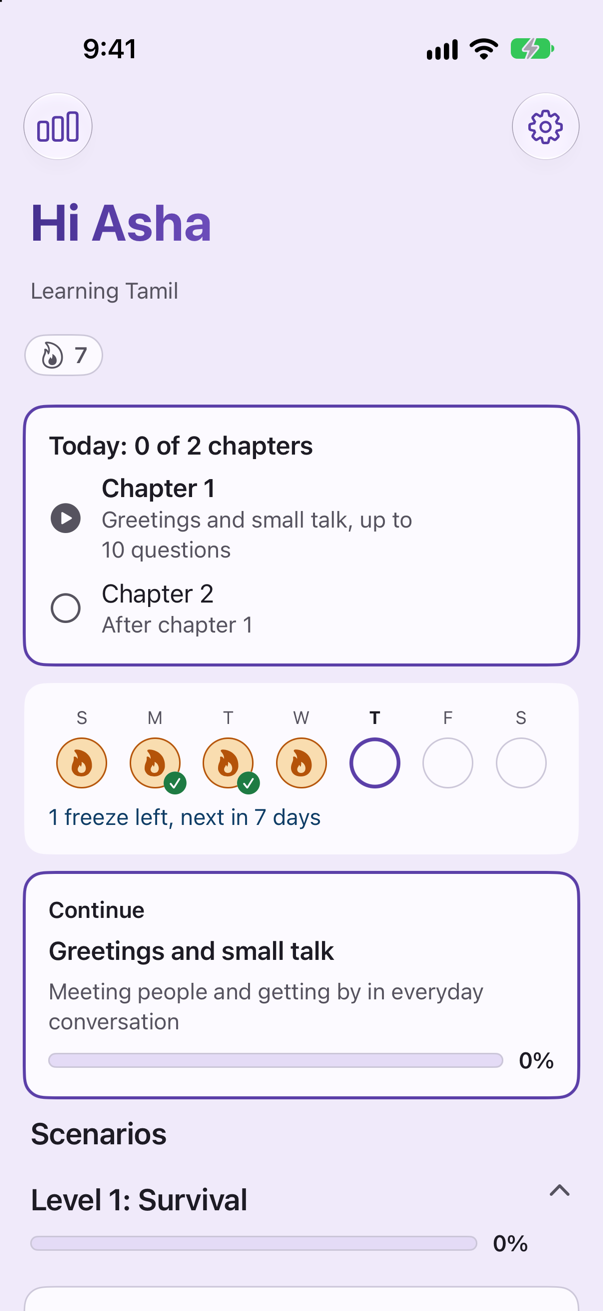
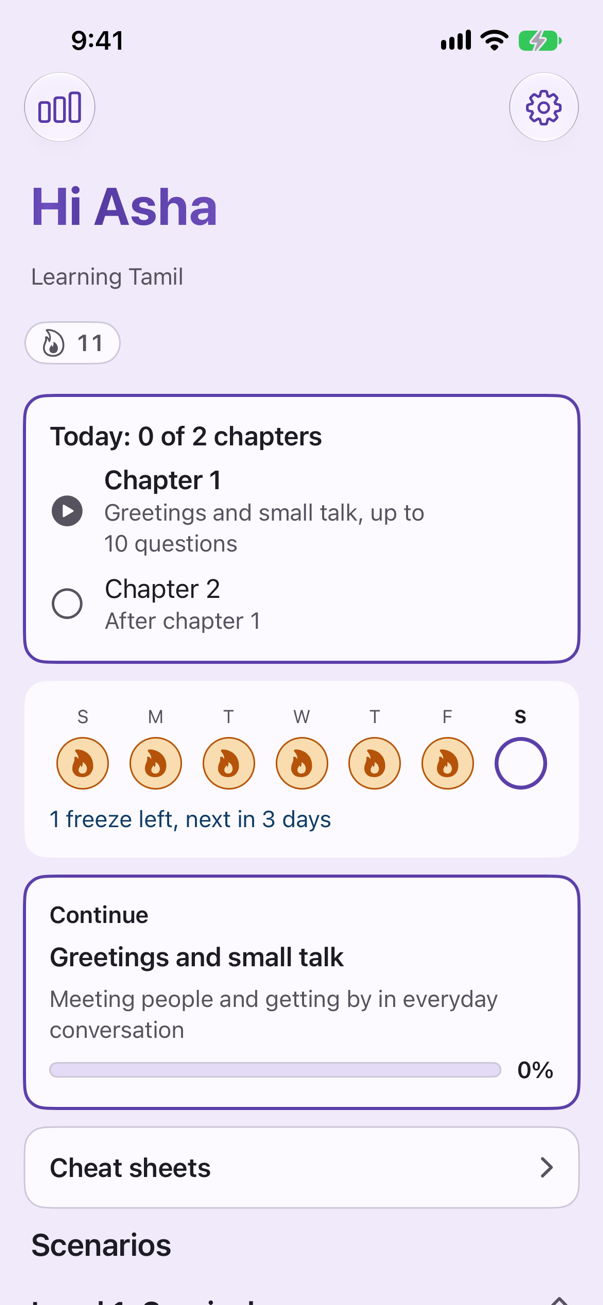
Home: move the Cheat sheets row under the Continue card (v0.5.2) (#49)

diff --git a/Packages/BLTKit/Sources/BLTFeatures/Home/ScenariosView.swift b/Packages/BLTKit/Sources/BLTFeatures/Home/ScenariosView.swift
@@ -112,6 +112,7 @@ struct ScenariosView: View {
                 if let next = viewModel.continueLesson {
                     ContinueLessonCard(summary: next) { onSelectScenario(next.id) }
                 }
+                HomeCheatSheetsEntry(action: onOpenCheatSheetList)
                 Text("Scenarios")
                     .font(.title3.weight(.semibold))
                     .foregroundStyle(Palette(colorScheme).textPrimaryColor)
@@ -121,8 +122,6 @@ struct ScenariosView: View {
                     levelSection(section)
                 }
                 otherLessons
-                HomeCheatSheetsEntry(action: onOpenCheatSheetList)
-                    .padding(.top, 8)
                 if let entry = viewModel.examEntry {
                     ExamEntryCard(entry: entry, action: onOpenExam)
                         .padding(.top, 8)

diff --git a/docs/HANDOFF.md b/docs/HANDOFF.md
@@ -7,7 +7,7 @@ Read this first in a new session, then `CLAUDE.md`. Last updated 2026-10-16 (che
 **Everything in `plan.md` except the exam papers and the review and drafting of Levels 3 to 8 is built and merged on `main`** (Waves 0 to 4, the exam engine and exam storage). The app asks for a name and a language, shows the chosen course's lessons grouped by level, keeps separate progress and imported lessons per language, and switches language in Settings. Both courses have Levels 1 and 2 drafted (480 phrases each); only Tamil lessons 1 to 5 are reviewed, the rest is `unreviewed` (the Settings count reads "100 of 480 reviewed" for Tamil). Nothing is waiting in an unmerged branch or an open PR.
 
 **What to do next, in this order**
-0a. **Cheat sheets (built 2026-10-16, v0.5.0, DECISIONS 048; PR #47).** Read `plan.md` section "Cheat sheets". A finished topic's card gets a "Cheat sheet" button and Home gets a "Cheat sheets" list. The sheet is an auto-built word list (not a verb and adverb sheet: the lesson data has no part-of-speech labels); the unlock is stored per language in `courses/<language>/cheatsheets.json` and Reset progress clears it. Built in Waves 1 to 3 (C1 to C6). UI tests: `HappyPathUITests` (one new), `CheatSheetUITests`, `AccessibilityCheatSheetUITests`; launch argument `--uitest-cheatsheets=<ids>` (or `--uitest-cheatsheets-<language>=<ids>`) marks topics complete, the fixtures' ids are `zz-scenario` and `zz-scenario-telugu`. **Still owed:** (a) screenshots done in v0.5.1; (b) the owner's checks on an iPhone: finish a topic and read its sheet, VoiceOver on a row (it should read "word, meaning"), and that the sheet still opens after the topic is no longer 100%; (c) how the screens look at the largest text size by eye (the audits pass, previews were not viewed rendered); (d) `v0.5.0` and `v0.4.2` are tagged; the Cheat sheets entry sits at the very bottom of Home, below all 24 topics, so a learner may not find it (consider moving it up).
+0a. **Cheat sheets (built 2026-10-16, v0.5.0, DECISIONS 048; PR #47).** Read `plan.md` section "Cheat sheets". A finished topic's card gets a "Cheat sheet" button and Home gets a "Cheat sheets" list. The sheet is an auto-built word list (not a verb and adverb sheet: the lesson data has no part-of-speech labels); the unlock is stored per language in `courses/<language>/cheatsheets.json` and Reset progress clears it. Built in Waves 1 to 3 (C1 to C6). UI tests: `HappyPathUITests` (one new), `CheatSheetUITests`, `AccessibilityCheatSheetUITests`; launch argument `--uitest-cheatsheets=<ids>` (or `--uitest-cheatsheets-<language>=<ids>`) marks topics complete, the fixtures' ids are `zz-scenario` and `zz-scenario-telugu`. **Still owed:** (a) screenshots done in v0.5.1; (b) the owner's checks on an iPhone: finish a topic and read its sheet, VoiceOver on a row (it should read "word, meaning"), and that the sheet still opens after the topic is no longer 100%; (c) how the screens look at the largest text size by eye (the audits pass, previews were not viewed rendered); (d) `v0.5.0` and `v0.4.2` are tagged; the Cheat sheets row was moved from the bottom of Home to just under the Continue card in v0.5.2.
 0. **Daily practice feature (approved 2026-10-14): built, merged as PRs #40, #41 and #42 (the plan is #39).** **Still owed:** (a) the new UI tests have run and pass (`DailyPracticeUITests`, `AccessibilityPracticeUITests`, the new `AccessibilityLargeTextUITests` checks, the three `HappyPathUITests`); the whole full tier ran once on iPhone 17e (77 tests): all pass except `AccessibilityLargeTextUITests.testIntroAndNameEntryControlsAreReachableAtXXXL`, which fails the same way without this feature (Continue not hittable on the name screen at the largest size), so it is a separate follow-up. On the iPhone 17 simulator the two name-entry audits fail ("keyboard did not dismiss") even on code without this feature; use iPhone 17e for them; (b) the owner looks at the new screens in Xcode previews or the simulator (flame, week strip, calendar, burst, Settings section, prompt): nothing has been seen by eye; (c) on the owner's iPhone: allow notifications, finish a session, confirm the reminders at +20 h and +23 h and the quiet-hours shift, VoiceOver on the streak screen, and `.completeFileProtection` on `practice.json`. Rules and shape are in DECISIONS 047 and `docs/ARCHITECTURE.md` "Daily practice". Local notifications only; the one file that imports `UserNotifications` is `BLTApp/BLTApp/LocalReminderScheduler.swift`. No lesson text or learner name in notification text. Known choices: a 25-hour fall-back night breaks a streak unless a freeze is held; the notification prompt is asked once, after the very first finished session; the Continue card stays under the Today card because `HomeUITests` needs it.
 1. **Course content: Levels 1 and 2 are drafted for both courses and wait for review.** Level 1: PRs #29 and #30 (Tamil lessons 1 to 5 reviewed, the rest unreviewed). Level 2 (12 lessons, 240 phrases per language, all `unreviewed`) was drafted ahead of the Level 1 review at the owner's request. The drafting model is **Sonnet 5.5 at High effort**; the owner will check with Opus later. **Level 3 is drafted only after each language's reviewer says Levels 1 and 2 are done**, so their corrections land first (plan.md "Content" step 6); the Tamil and Telugu paces may differ. Rules for the drafter: read `docs/content/STYLE_NOTES_TAMIL.md` (rules from the owner's edits to lessons 1 to 5, plus the Level 2 notes) and `STYLE_NOTES_TELUGU.md` (the drafter's choices and the items least certain); update both with every review correction and re-apply them to the later level. Run `bash scripts/content-index.sh --check` before and after drafting and `--mirror` afterwards (a later duplicate is silently dropped by the loader). Files: `content/<language>/<ta|te>-lNN-uNN-<slug>.json`, items `<id>-iNN`, every item with `script`, all `unreviewed`; commit review edits only after the owner has seen the full `git diff content/`. Register mix is off the syllabus 40/40/20: Level 1 about 8% casual, 26% respectful, 66% no you-form; Level 2 about 20/14/66. Statements about things and people have no you-form, so reaching the target needs more questions to a friend or an elder in Level 3. The five original Tamil lessons' `script` spellings were backfilled (PR #35, merged after the owner read it).
 2. **Exam papers (chunk E4).** The exam screen (E3, PR #32) is built: Home shows a "Final exam" card only when a course has a paper (`AppDependencies.examPaper`, `nil` today), locked until every level is complete; the sitting gives no feedback and stores a score-only attempt in `courses/<language>/exam.json`; Reset progress clears it. **Paper format and loader are built (DECISIONS 046, `ExamPaperLoader`, wired in `CompositionRoot.loadExamPaper`).** What remains is writing the papers: `content/<language>/exam/final.json` per the blueprint in `docs/COURSE_SYLLABUS.md` section 6 (about 70 new sentences with `examLevel`, about 30 `fromLessons` ids), after that language's Level 8 is reviewed; `ShippedExamPaperTests` then checks it. Until then there is no way to open the exam in the app, so it has no UI test and has not been seen by eye (SwiftUI previews exist in `Exam/ExamView.swift`).

diff --git a/README.md b/README.md
@@ -66,7 +66,7 @@ Two courses, each with Levels 1 and 2 (24 lessons, 480 phrases), and everything 
   - **Where you see it.** A flame chip, the Today card and a week strip on Home; the flame, the new count and "Daily goal met" at the end of a session; and a streak screen with the deadline, longest streak, freezes and a month calendar. With Reduce Motion on, nothing bounces.
   - **Reminders.** At most two local notifications, 20 and 23 hours after your last session. A reminder that would fall in quiet hours (10 pm to 8 am unless you change them) arrives 30 minutes before they start instead. The text names the streak and the language, never a phrase or your name. You are asked once, after your first finished session, and Settings is the way back in.
   - **Per language.** Each language has its own streak and log. Reset progress clears only the language you are on. Nothing leaves the device. See [`docs/DECISIONS.md`](docs/DECISIONS.md) 047.
-- **Cheat sheets.** When you finish a topic, its card gets a "Cheat sheet" button: a plain word list of that topic, in the order it teaches them, each word with its English meaning and an example phrase. It is a word list, not a verb and adverb list, because the lesson data has no part-of-speech labels. A sheet stays open even if you later slip below 100%. A "Cheat sheets" row on Home lists every topic, with a calm "Finish this topic to see its cheat sheet" for the ones still ahead. Words from unreviewed phrases carry the "Unreviewed draft" label. Each language has its own, and Reset progress clears them. See [`docs/DECISIONS.md`](docs/DECISIONS.md) 048.
+- **Cheat sheets.** When you finish a topic, its card gets a "Cheat sheet" button: a plain word list of that topic, in the order it teaches them, each word with its English meaning and an example phrase. It is a word list, not a verb and adverb list, because the lesson data has no part-of-speech labels. A sheet stays open even if you later slip below 100%. A "Cheat sheets" row near the top of Home (under the Continue card) lists every topic, with a calm "Finish this topic to see its cheat sheet" for the ones still ahead. Words from unreviewed phrases carry the "Unreviewed draft" label. Each language has its own, and Reset progress clears them. See [`docs/DECISIONS.md`](docs/DECISIONS.md) 048.
 - **A final exam, not yet open.** The exam screen is built (100 questions, pass mark 75, no feedback during the sitting, score-only history). It appears on Home only when a course has an exam paper, and no paper is written yet.
 - **Lessons can be updated on the phone.** Settings has an "Import lessons" action: pick lesson files from the Files app and the app validates them (all or nothing) and starts using them straight away. See below.
 - **Private by construction.** The only personal data is a display name, stored on the device. There is no account, no network code, and no analytics. Reminders are local notifications scheduled by one file, `LocalReminderScheduler.swift`; nothing is sent anywhere.

diff --git a/CHANGELOG.md b/CHANGELOG.md
@@ -4,6 +4,11 @@ What changed in each version of blt.ai, newest first. These are project versions
 
 **How versions work.** `MINOR` goes up for a feature a learner can see or a change to how the app is built (v0.4.0 is daily practice, v0.5.0 is cheat sheets). `PATCH` goes up for a fix, a content or documentation change, or a tooling change. Every pull request that changes behaviour, a screen, storage, or the docs adds a line here under the version it ships in, and updates the README (features and screenshots) when a screen or a capability changed. The standing rule is in [`CLAUDE.md`](CLAUDE.md). Git tags (`v0.4.0` and so on) mark the merge commit of each version.
 
+## v0.5.2 (2026-10-17): Cheat sheets entry moved to the top of Home
+
+- The "Cheat sheets" row on Home now sits just under the Today and Continue cards, above the topic list. It was at the very bottom, below all 24 topics, and easy to miss.
+- README Home screenshots retaken from a current build.
+
 ## v0.5.1 (2026-10-17): Cheat sheet screenshots
 
 - README screenshots of the cheat sheet and the Cheat sheets list, taken from a current build on iPhone 17e (they were linked in v0.5.0 but not yet added).

diff --git a/progress.md b/progress.md
@@ -1,7 +1,7 @@
 # Progress: two-way course plan (plan.md)
 
 ## Next (2026-10-16)
-- Cheat sheets (plan.md "Cheat sheets", ships as v0.5.0): the owner approved the plan on 2026-10-16. Merged as #46 and #47, tagged `v0.4.2` and `v0.5.0`. Screenshots added in v0.5.1. Next: the owner checks on an iPhone (HANDOFF item 0a).
+- Cheat sheets (plan.md "Cheat sheets", ships as v0.5.0): the owner approved the plan on 2026-10-16. Merged as #46 and #47, tagged `v0.4.2` and `v0.5.0`. Screenshots added in v0.5.1; the Cheat sheets row moved to the top of Home in v0.5.2. Next: the owner checks on an iPhone (HANDOFF item 0a).
 
 ## Cheat sheets (plan.md "Cheat sheets")
 **Wave 1 built (branch `cheat-wave1`, merged from `cheat-c1`, `cheat-c2`, `cheat-c3`).**
